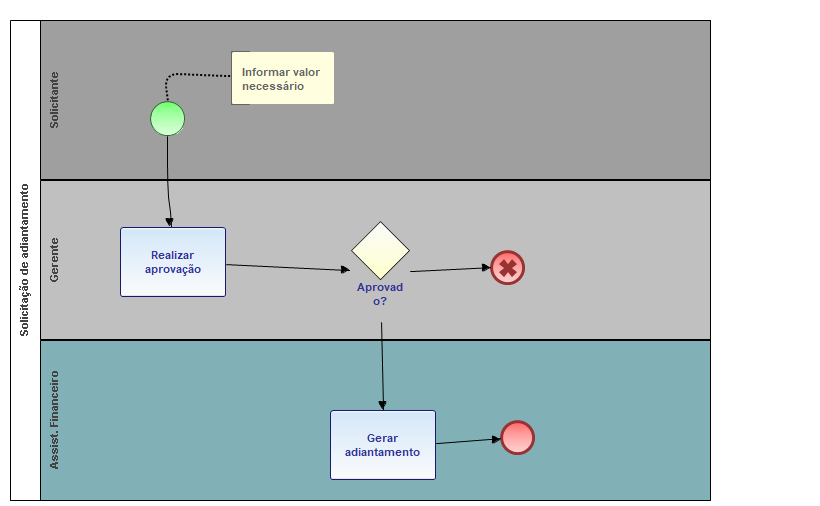
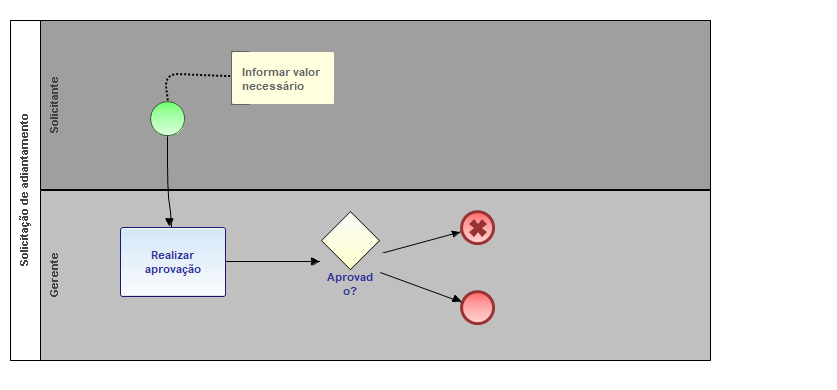
Criação formulário: Solicitação de adiantamento Alteração processo solicitação de adiantamento: Retirada da tarefa de gerar financeiro.

diff --git a/Fluig VMB Teste/forms/304 - Solicitação de Viagem/Solicitação de Viagem.html b/Fluig VMB Teste/forms/304 - Solicitação de Viagem/Solicitação de Viagem.html
@@ -1,18 +1,12 @@
 <html>
    <head>
       <meta charset="utf-8">
-      <link type="text/css" rel="stylesheet"
-         href="/portal/resources/style-guide/css/fluig-style-guide.min.css" />
-      <script type="text/javascript"
-         src="/portal/resources/js/jquery/jquery.js"></script>
-      <script type="text/javascript"
-         src="/portal/resources/js/jquery/jquery-ui.min.js"></script>
-      <script type="text/javascript"
-         src="/portal/resources/js/mustache/mustache-min.js"></script>
+      <link type="text/css" rel="stylesheet" href="/portal/resources/style-guide/css/fluig-style-guide.min.css" />
+      <script type="text/javascript" src="/portal/resources/js/jquery/jquery.js"></script>
+      <script type="text/javascript" src="/portal/resources/js/jquery/jquery-ui.min.js"></script>
+      <script type="text/javascript" src="/portal/resources/js/mustache/mustache-min.js"></script>
       <script type="text/javascript" src="/webdesk/vcXMLRPC.js"></script>
-      <script type="text/javascript"
-         src="/portal/resources/style-guide/js/fluig-style-guide.min.js"
-         charset="utf-8"></script>
+      <script type="text/javascript" src="/portal/resources/style-guide/js/fluig-style-guide.min.js" charset="utf-8"></script>
       <link type="text/css" rel="stylesheet" href="style.css" />
    </head>
    <body>

diff --git a/Fluig VMB Teste/forms/943 - Reembolso auxilio creche/Reembolso auxilio creche.html b/Fluig VMB Teste/forms/943 - Reembolso auxilio creche/Reembolso auxilio creche.html
@@ -71,8 +71,7 @@
                                           <label for="vl_rmb">Valor a ser reembolsado</label>
                                           <input type="number" class="form-control" name="vl_rmb" id ="vl_rmb">
                                        </div>
-                                       <div class="form-group col-md-3" id="divApPrazo">
-                                       	<label>Aprovado no prazo</label>
+                                       <div class="form-group col-md-3" id="divApPrazo">                               
                                        	<input type="text" id ="aprPrazo" class="form-control" name="aprPrazo">
                                        </div>
                                     </div>                            

diff --git a/Fluig VMB Teste/forms/943 - Reembolso auxilio creche/events/displayFields.js b/Fluig VMB Teste/forms/943 - Reembolso auxilio creche/events/displayFields.js
@@ -14,7 +14,7 @@ function displayFields(form,customHTML){
     customHTML.append("</script>");
 	
     
-    form.setVisibleById("divApPrazo", false);
+    form.setVisibleById("aprPrazo", false);
     form.setVisibleById("divPrazoApr", false);
     form.setVisibleById("divMatricualApr", false);
     
